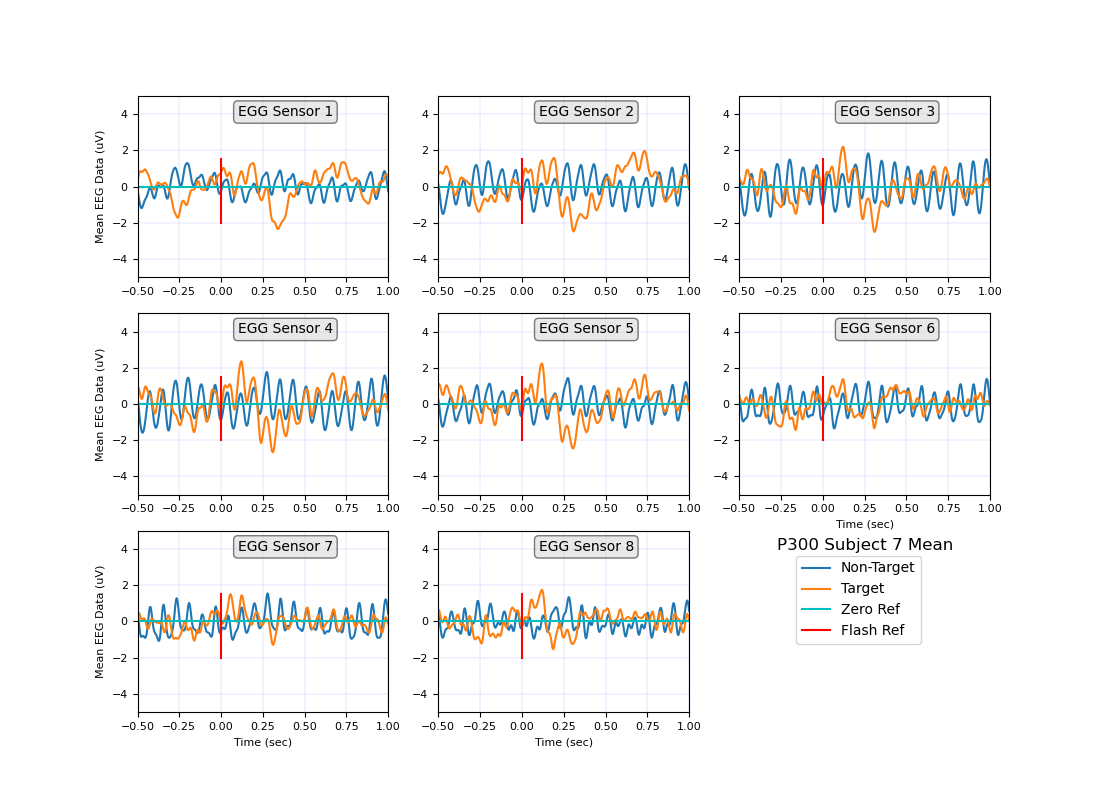
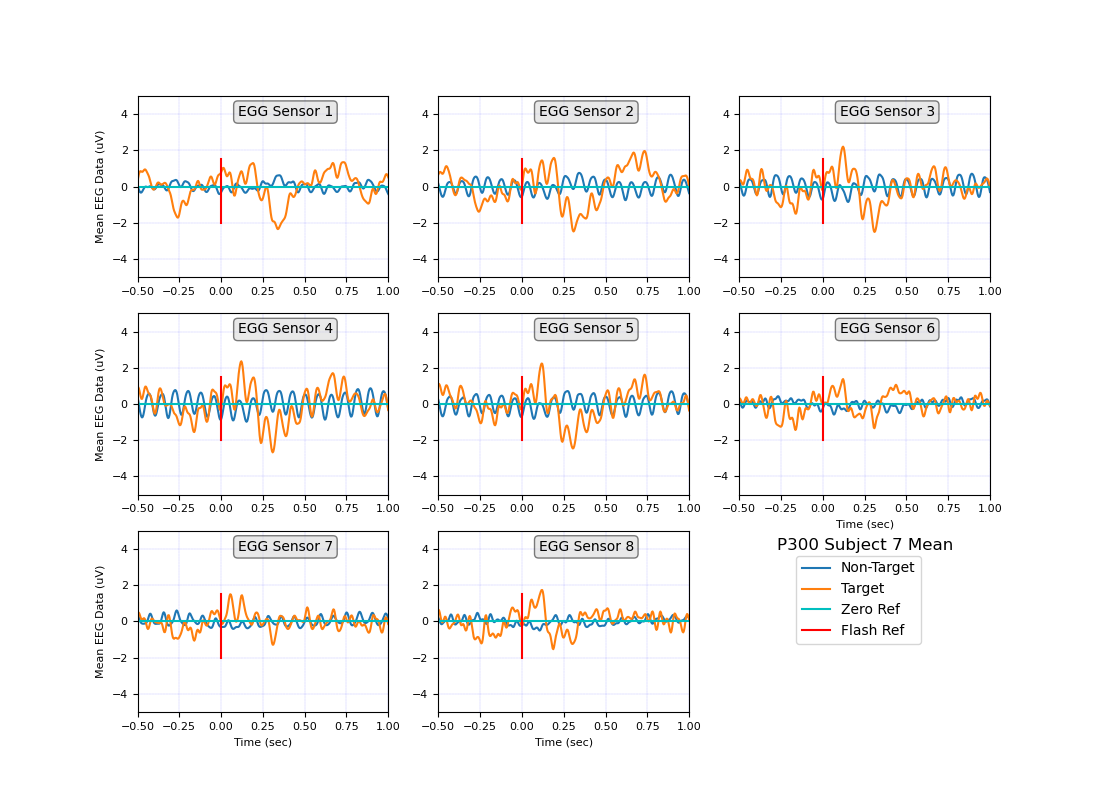
Finished Part 5 - Jim, Finished Part 6 - Nick.

diff --git a/plot_p300_erps.py b/plot_p300_erps.py
@@ -3,15 +3,18 @@
 Created on Thu Jan 25 10:04:47 2024
 
 File: plot_p300_erps.py
-Authors: Nicholas Kent
+Authors: Nicholas Kent, James Averill
 Date: 1/25/2024
-Description:
+Description: This script, plot_p300_erps.py, takes the p300 data found from load_p300_data.py and calculates ERPs. The ERPs are found
+by determining when a target event happened and then recording the eeg_data at that event. It then averages the ERPs and plots them for easy viewing.
 """
+
+#%% Part 1
 # Imports
 import numpy as np
 from matplotlib import pyplot as plt
 
-#%%
+#%% 
 # Part 2
 def get_events(rowcol_id, is_target):  
     """get_events this function uses rowcol_id to identify moments when
@@ -22,12 +25,15 @@ def get_events(rowcol_id, is_target):
            int[] rowcol_id : row/col id of the letter being flashed on screen
            bool[] is_target : true if the letter was a letter the participant was supposed to type, false otherwise
        returns: 
-           int[] event_sample : An array of indicies where event IDs in rowcol_id move upward. Indicates a start of a new event.
-           bool[] is_target_event : An array indicating for each index in event_sample whether the corresponding event was a target in the is_target array.
+           int[] event_sample : An array of indicies where event IDs in rowcol_id move upward. Indicates a start of a new row/col flash event.
+           bool[] is_target_event : An array indicating for each index into event_sample that this event corresponds to the flashing of a target letter.
     """
     # Create an array of the samples when the event ID went up (flashes)
-    event_sample = np.array(np.where(np.diff(rowcol_id) > 0)[0] + 1)
     
+    # This is a foward difference looking for positive value of (n+1) - n.  Need to add 1 to n to get the true location of the event  
+    
+    event_sample = np.array(np.where(np.diff(rowcol_id) > 0)[0] + 1)
+          
     # Use event_sample to index the is_target array
     is_target_event = is_target[event_sample]
             
@@ -39,42 +45,32 @@ def get_events(rowcol_id, is_target):
 def epoch_data (eeg_time, eeg_data, event_sample, epoch_start_time = -0.5, epoch_end_time = 1.0):
      '''
       Inputs:
+          eeg_time : TYPE: vector of floats.  
+              DESCRIPTION. Time associated with sampling off eeg data
+          eeg_data : TYPE: Matrix with 2 dimensions
+              DESCRIPTION. Axis(0) Associated with sensor, axis(1) raw data
+          event_sample : TYPE vector of int
+              DESCRIPTION. Index into eeg_data associated when a row or column was flashed
+          epoch_start_time : TYPE, optional
+              DESCRIPTION. The default is -0.5 (sec).
+          epoch_end_time : TYPE, optional
+              DESCRIPTION. The default is 1.0 (sec).
       
-      Purpose:
+      Purpose: Epoch Data which are windowed snap shots of the data around events.
           
       Outputs: 
-      1) np.array containing the Epoch Data which are windowed snap shots of the data around events. 
-      The Epoch data is a A three dimensional matrix; axis (0) consists of the raw eeg sensor data, axis (1) consists of the eight eeg sensor channels 
-      and axis (2) epoch or realization - each of the identified events (i.e. when a row or column flashes)
-      2) Relative time associated with each event 
+          eeg_epochs: Type:np.array containing the  
+              The Epoch data is a A three dimensional matrix:
+                  axis (0) consists of the raw eeg sensor data, for a default time window of 1.5 sec and fs - 256 => 1.5*256+1=385 
+                  axis (1) consists of the eight eeg sensor channels, and  
+                  axis (2) epoch or realization - each of the identified events (i.e. when a row or column flashes)
       
-         
-      # how did this get here???
-    
-      Parameters
-      ----------
-      eeg_time : TYPE: vector of floats.  
-          DESCRIPTION. Time associated with sampling off eeg data
-      eeg_data : TYPE: Matrix with 2 dimensions
-          DESCRIPTION. Axis(0) Associated with sensor, axis(1) raw data
-      event_sample : TYPE vector of int
-          DESCRIPTION. Index into eeg_data associated when a row or column was flashed
-      epoch_start_time : TYPE, optional
-          DESCRIPTION. The default is -0.5 (sec).
-      epoch_end_time : TYPE, optional
-          DESCRIPTION. The default is 1.0 (sec).
-    
-      Returns
-      -------
-      eeg_epochs: Type:
-                  Description: Matrix with three dimensions.  First axis(0) raw eeg windowed sample data, 
-                      second axis(1) each of the epochs, third axis(2) eeg sensors total
+           
       erp_times:  Type: vector of floats 
-                  Description: Values represent the relative time to the target event associated with each of the 
-                  eeg_epochs data samples.
+          Relative time associated with each event, for the default time this will range from -0.5 to 1.5
        
       Assumptions
-      Fixed sample time for all the data
+          Fixed sample time for all the data
       '''    
      # Calaculate the sample period based upon time between two arbritrary samples
      ts = eeg_time[10]-eeg_time[9]
@@ -104,8 +100,8 @@ def epoch_data (eeg_time, eeg_data, event_sample, epoch_start_time = -0.5, epoch
                  # sample index for eeg_epochs runs from 0 to the total number of samples
                  # The data contained in egg_data is adjusted based upon the index into event samples
                  # eeg_epoch[0] corrsponds to event_sample[epoch_index] + (epoch_start_time*fs) (note epoch_start_time a negative value)
-                # epoch_index = 0
-                # epoch_start_time = -0.5
+                 # epoch_index = 0
+                 # epoch_start_time = -0.5
                  start = int(event_sample[epoch_index] + (epoch_start_time*fs))
                  eeg_epochs[sample_index,channel_index,epoch_index]= eeg_data[channel_index,start+sample_index]
                     
@@ -134,14 +130,17 @@ def get_erps(eeg_epochs, is_target_event):
     # Axis = 2 to compute the mean across each [sample, channel]
     target_erp = np.mean(target_epochs, axis=2)
     nontarget_erp = np.mean(nontarget_epochs, axis=2)
-
+    
+    # commented code below was created to investigate the variance differnces between target and nontarget data  variance = 1/sqrt(N)
+    #nontarget_erp = np.mean(nontarget_epochs[:,:,1:150], axis=2) # make sample size the same as target erp= 150
+    
     # Return target_erp and nontarget_erp
     return target_erp, nontarget_erp
 
 
 
 #%% Part 5
-def plot_erps(target_erp,nontarget_erp,erp_times):
+def plot_erps(target_erp,nontarget_erp,erp_times,subject):
     '''
     Inputs: 
         
@@ -153,33 +152,20 @@ def plot_erps(target_erp,nontarget_erp,erp_times):
                                    axis 1 eeg sensor channels                      
         erp_times - Type[]: a vector [sample index x 1] of times in seconds relative to the start of a column or row flash.                                  
                                 sample index is the same value as the sample index in target_erp[] and nontarget_erp[]
-     
-    Description: Plots the ERP data in 3 x 3 subplots.  The mean target and non target data is plotted separately on top of each other. 
+        subject: Int ID of subject to plot
+    
+    Description: Plots the ERP data in 3 x 3 subplots for the range of subject(s) passed as an input parameter.  The mean target and non target data is plotted separately on top of each other. 
                  Refernce markers are include to indicte the zero voltge level and to identify the onset of the flashed rows or columns.
-                 Plot to figure 1  or ()???
-                 Store the figure to a file ???
-                 Hard code for 8 figures ???
+    
     Returns: None
  
-    '''
-    # When I restart kernal need to reidentify directory???
-
-    #C:\Users\Jim03121957\OneDrive\Documents\GitHub\BCI ???
-
-    # Create 3 x 3 subplots consisting of the 8 EEG channels.   
-    # Design the subplots so that it works regardless of the number of EEG channels. ???
+    Assumptions:  Number of subplots = 8
  
-    # Do not assume that pypot has been imported
+    '''
+  
+    # Do not assume that pyplot has been imported
     import matplotlib.pyplot as plt
-    # Determine the number of EEG sensor channels
-
-    # Establish a matrix 3x3 of subplots, all with the same x and y axis, figure 10" wide by 7" high
-    # Use constrained layout to prevent overlap  ???
-
-    # how to format the size of the legend???
-    #location of the legend ???
-    #size of figure x inches by y inches ???
-    #
+  
 #%% set-up the aesthetics of the plot
     #fig, axs = plt.subplots(3, 3, sharex= 'all', sharey= 'all', figsize = (11, 8), constrained_layout = False, num =1, clear=True)
     fig, axs = plt.subplots(3, 3, sharex= 'all', sharey= 'all', figsize = (11, 8), constrained_layout = False,  clear=True)
@@ -189,7 +175,7 @@ def plot_erps(target_erp,nontarget_erp,erp_times):
     # Remove the last subplot (9) only 8 sensors
     axs[2,2].set_axis_off()
     #plt.ylim(-2.5, 2.5)
-    #plt.ylim(-100, 100)
+    plt.ylim(-5, 5)         # want all subjects and subplots to have the same y-axis +/- 5 is a good compromise
     plt.xlim(-.5,1)
     plt.grid(axis='both',color='r', linestyle='-', linewidth=2)
     axs[2,0].set_xlabel('Time (sec)',fontsize = 8)
@@ -207,7 +193,7 @@ def plot_erps(target_erp,nontarget_erp,erp_times):
     props = dict(boxstyle='round', facecolor='lightgray', alpha=0.5)
 
 #%% Populate the plot with data
-    subject_index = 3           # Hard code starting with subject three
+    #subject_index = 3           # Hard code starting with subject three
     plot_index = 1              # subplots are identified starting at 1
     for row_index in range(3):
         for col_index in range(3):
@@ -242,20 +228,14 @@ def plot_erps(target_erp,nontarget_erp,erp_times):
            
                # Sequence through the sensor channels  
                plot_index += 1 
-            else:  # Sensor channel 9 does not exist so don't plot data, instead display the plot legend.
+            else:  # Sensor channel 9 does not exist so don't plot data
+                # Instead use this to update with the figure with legend and "subject" information.
                 plt.legend(bbox_to_anchor = (1.4,.9), ncol=1)
-                plt.savefig (f'P300_Subject_{subject_index}')
-                plt.title (f'Subject {subject_index} Mean Response',fontsize= 10 )
-  
-#%% Save the figure to a PNG file
-
-  #  fig.savefig ('draft_figure_part_5')   # save the last figure, why does it go into the next level up folder???
-        
-  #  plt.show()              # not sure if I need this ??? once per session
-    
-    #plt.tight_layout()  # not sure if I need this 
-
-# END
+                # Place the subject info above the legend.  y = 1.0 is the top of plot, pad -14 drops it down corresponding to  font = 14
+                axs[2,2].set_title(f'P300 Subject {subject} Mean', y=1.0, pad=-14)
+                
+                # Now save the figure
+                plt.savefig (f'P300_Subject_{subject}')
 
 
 

diff --git a/test_plot_p300_erps.py b/test_plot_p300_erps.py
@@ -3,9 +3,10 @@
 Created on Thu Jan 25 10:05:42 2024
 
 File: test_plot_p300_erps.py
-Authors: Nicholas Kent
+Authors: Nicholas Kent, James Averill
 Date: 1/25/2024
-Description:
+Description: This script, test_plot_p300_erps.py, calls all functions in plot_p300_erps.py with subjects 3-10 being displayed for
+the plots.
 """
 #%%
 # Part 1
@@ -51,7 +52,9 @@ target_erp, nontarget_erp = get_erps(eeg_epochs, is_target_event)
 
 from plot_p300_erps import plot_erps
 
-plot_erps(target_erp,nontarget_erp,erp_times)
+subject_index = 3
+
+plot_erps(target_erp,nontarget_erp,erp_times,subject_index)
 
 '''
 #%% Test by visualizing the data. The following should be removed 
@@ -99,11 +102,25 @@ from plot_p300_erps import get_erps
 from plot_p300_erps import plot_erps
 import matplotlib.pyplot as plt
 
-for subject_index in range (4,5):
-    subject_3 = subject_index
-    eeg_time, eeg_data, rowcol_id, is_target = load_training_eeg(subject_3, data_directory)
+for subject_index in range (3,11):
+    eeg_time, eeg_data, rowcol_id, is_target = load_training_eeg(subject_index, data_directory)
     event_sample, is_target_event = get_events(rowcol_id, is_target)
     erp_times,eeg_epochs = epoch_data (eeg_time, eeg_data, event_sample,epoch_start_time = -0.5, epoch_end_time = 1.0)
     target_erp, nontarget_erp = get_erps(eeg_epochs, is_target_event)
-    plot_erps(target_erp,nontarget_erp,erp_times)
-    #plt.title (f'Subject {subject_index} Mean Response',fontsize= 16 )
+    plot_erps(target_erp,nontarget_erp,erp_times,subject_index)
+"""
+1. The occurance of the repeated up-and-down pattern on many of the channels is likely due to normal background brain activity of the participants.
+There were other large magnitude waveforms that could be associated with the placement of the sensors and artfacts that are not relevent to the experiment.
+The sources of the artifacts considered were 60hz AC or improper attachment of the sensors that were subject to the participants (i.e. participant moves), neither of these seem feasible due to the time period/frequency of the waveforms.
+
+2. The waveforms that appear to be more pronounced than others tend to be in the occipital lobe. The most noticable change in the occipial lobe appear to happen around
+the time of the flash. This indicates that the occipital lobe has a period when it processes the flash and spikes in brain activity, this is then reflected in the spikes in the
+parietal lobe sensors as well.
+
+3. The voltage on some channels is likely due to the recognition from the occipital lobe mentioned in the previous response. Once the parietal lobe recieves the information from
+the occipital lobe about the flash it will then spike the parietal lobes brain activity.
+
+4. The sensors associated with seeing and processing the visual information coming into the brain (ie. sensors 3-7, 8, and 1). These sensors would pick up the information from the 
+flash, process the data, and then the frontal sensor would pick up the participant deciding if the information processed was correct or not. All participants showed similar
+results had similar answers when the data was collected correctly however, a few of the subjects (ie 4, 5) appear to have artifacting or extreme variation in their sensor data (More on this available in the world document Lab 2 Part 6.dox).
+"""

diff --git a/load_p300_data.py b/load_p300_data.py
@@ -44,7 +44,7 @@ def load_training_eeg(subject = 3, data_directory = "./P300Data"):
     # Store the data in numpy arrays
     eeg_time = np.array(train_data[0]) # Stores subject time
 
-    eeg_data = np.array(train_data[1:8]) # Stores subject data
+    eeg_data = np.array(train_data[1:9]) # Stores subject data
 
     rowcol_id = np.array(train_data[9], dtype = int) # Stores the id of the row and col of the flashed number
 

diff --git a/test_load_p300_data.py b/test_load_p300_data.py
@@ -36,7 +36,7 @@ train_data = data["s" + str(subject)]['train']
 # Store the data in numpy arrays
 eeg_time = np.array(train_data[0]) # Stores subject time
 
-eeg_data = np.array(train_data[1:8]) # Stores subject data
+eeg_data = np.array(train_data[1:9]) # Stores subject data
 
 rowcol_id = np.array(train_data[9], dtype = int) # Stores the id of the row and col of the flashed number
 
